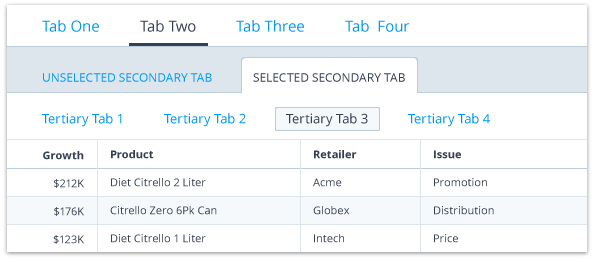
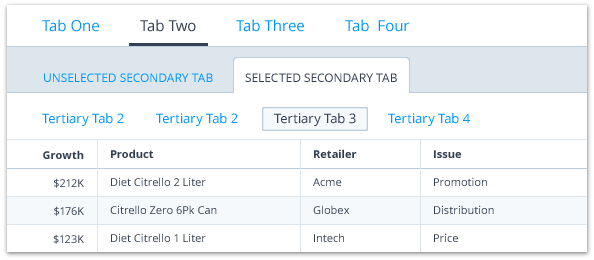
Revise Pattern: Tabs

diff --git a/tabs.php b/tabs.php
@@ -71,7 +71,7 @@
 								<dd>Text: 12px (9pt) <span title="Blue 500" class="theme">#0098F3</span></dd>
 								<dd>Case: Uppercase</dd>
 								<dd>Padding: <span class="pxrem">12px</span></dd>
-								<dd>Margin Between Tabs: <span class="pxrem">16px</span></dd>
+								<dd>Margin Between Tabs: <span class="pxrem">8px</span></dd>
 								<!-- -->
 								<dt>Select State</dt>
 								<dd>Text Color: <span title="Gray 900" class="theme">#151921</span></dd>
@@ -94,7 +94,7 @@
 								<dd>Text: 13px (10pt) <span title="Blue 500" class="theme">#0098F3</span></dd>
 								<dd>Case: Capitalize</dd>
 								<dd>Padding: <span class="pxrem">12px</span></dd>
-								<dd>Margin Between Tabs: <span class="pxrem">16px</span></dd>
+								<dd>Margin Between Tabs: <span class="pxrem">8px</span></dd>
 								<!-- -->
 								<dt>Select State</dt>
 								<dd>Text Color: <span title="Gray 900" class="theme">#151921</span></dd>
